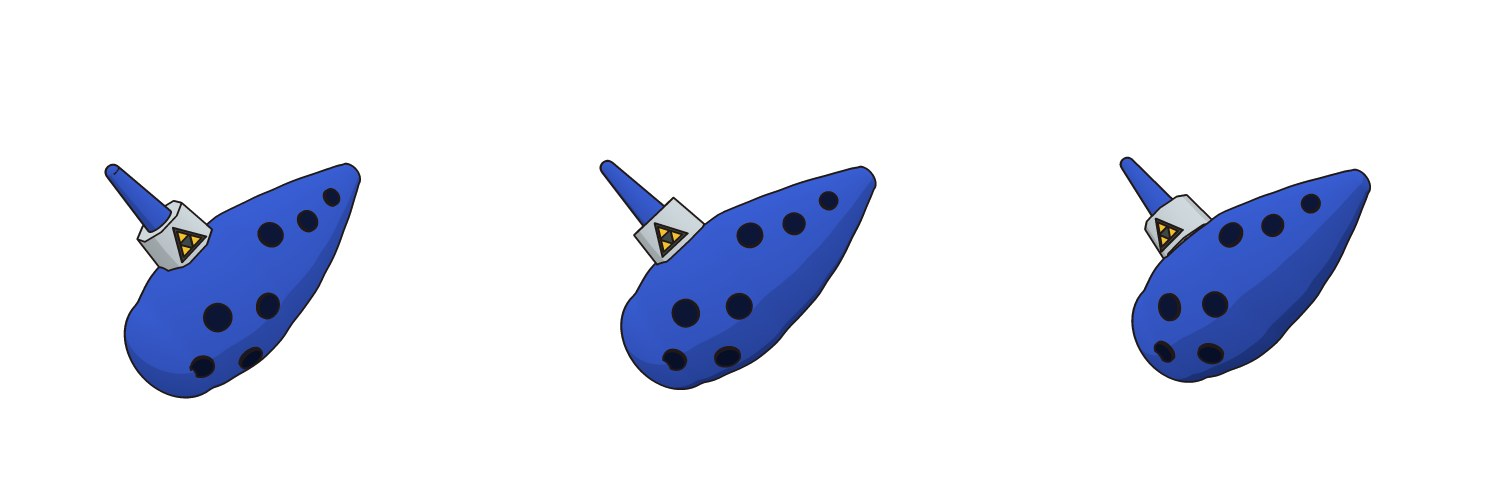
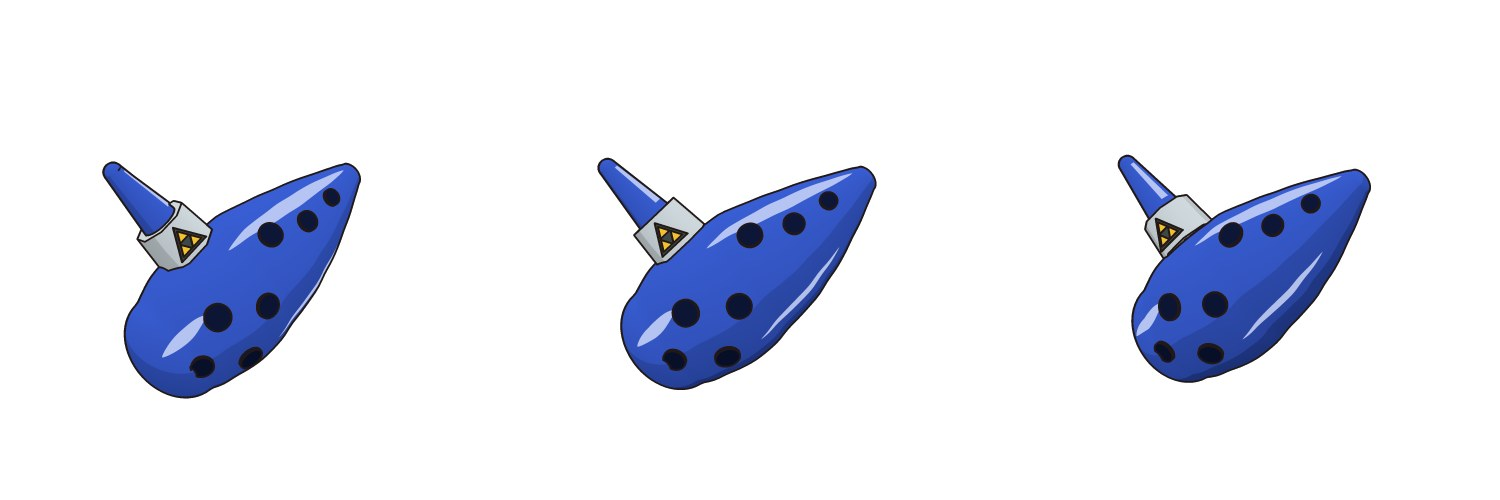
Ocarina v2 approved; glaze highlights on body and mouthpiece
Claude-Session: https://claude.ai/code/session_01Bi3PXNKGSfsqTH99bT8fk5

diff --git a/secondquest/tools/props3d/scene.ts b/secondquest/tools/props3d/scene.ts
@@ -269,6 +269,30 @@ const ocarina = () => {
     const n = new THREE.Vector3().crossVectors(du, dv).normalize();
     return { p, n: n.z < 0 ? n.negate() : n };
   };
+  // glaze highlights (Producer: "añade el brillo"): unlit light streaks laid on the surface, sharing the body's part id
+  // so the ink pass draws no outline around them; the holes sit above and cover them
+  const GLOSS = new THREE.MeshBasicMaterial({ color: new THREE.Color('#d4defc'), transparent: true, opacity: 0.8, depthWrite: false });
+  const streak = (u0: number, u1: number, vAt: (u: number) => number, halfW: number, lift = 0.35) => {
+    const NU = 60, NV = 6, verts: number[] = [], idx: number[] = [];
+    for (let i = 0; i <= NU; i++) {
+      const k = i / NU, u = u0 + (u1 - u0) * k, w = halfW * Math.sin(Math.PI * k) ** 0.7;
+      for (let j = 0; j <= NV; j++) {
+        const { p, n } = front(u, vAt(u) + (j / NV - 0.5) * 2 * w / L);
+        p.addScaledVector(n, lift); verts.push(p.x, p.y, p.z);
+      }
+    }
+    for (let i = 0; i < NU; i++) for (let j = 0; j < NV; j++) {
+      const a = i * (NV + 1) + j, b = a + NV + 1;
+      idx.push(a, b, a + 1, b, b + 1, a + 1);
+    }
+    const sg = new THREE.BufferGeometry();
+    sg.setAttribute('position', new THREE.Float32BufferAttribute(verts, 3)); sg.setIndex(idx); sg.computeVertexNormals();
+    const m = new THREE.Mesh(sg, GLOSS); m.userData.part = body.userData.part; m.renderOrder = 1; ids.push(m); g.add(m);
+  };
+  const upper = (f: number) => (u: number) => { const { yc, ry } = sect(u); return (yc + f * ry) / L; };
+  streak(-0.12, 0.9, upper(0.74), 3.2);              // long streak along the top, wide end to tip
+  streak(-0.86, -0.5, upper(0.35), 3.6);             // short gleam on the round end
+  streak(-0.2, 0.55, upper(-0.72), 1.6, 0.3);        // faint rim light along the belly
   // holes, from the reference: (u, v, radius mm)
   const HOLES: [number, number, number][] = [[0.153, 0.19, 7.0], [0.415, 0.078, 6.0], [0.673, 0.053, 5.0],
     [-0.457, 0.054, 7.6], [-0.163, -0.112, 7.0], [-0.711, -0.147, 6.6], [-0.434, -0.336, 7.2]];
@@ -294,6 +318,10 @@ const ocarina = () => {
   spout.position.y = CH + 2 + SL / 2 - 1; spout.userData.part = part++; ids.push(spout); mg.add(spout);
   const tip = new THREE.Mesh(new THREE.SphereGeometry(SR1, 32, 16), toon(BLUE));
   tip.position.y = CH + 2 + SL - 1; tip.userData.part = spout.userData.part; ids.push(tip); mg.add(tip);
+  {
+    const a = Math.PI * 0.30, shg = new THREE.CylinderGeometry(SR1 + 0.25, SR0 + 0.25, SL * 0.8, 6, 1, true, a - 0.22, 0.44);
+    const sh = new THREE.Mesh(shg, GLOSS); sh.position.y = CH + 2 + SL / 2 + 1; sh.userData.part = spout.userData.part; sh.renderOrder = 1; ids.push(sh); mg.add(sh);
+  }
   // Triforce on a dark inset, on the collar's front facet
   const rMid = (CR0 + CR1) / 2, apo = rMid * Math.cos(Math.PI / SEG), lean = Math.atan((CR0 - CR1) / CH);
   const plate = new THREE.Group();
